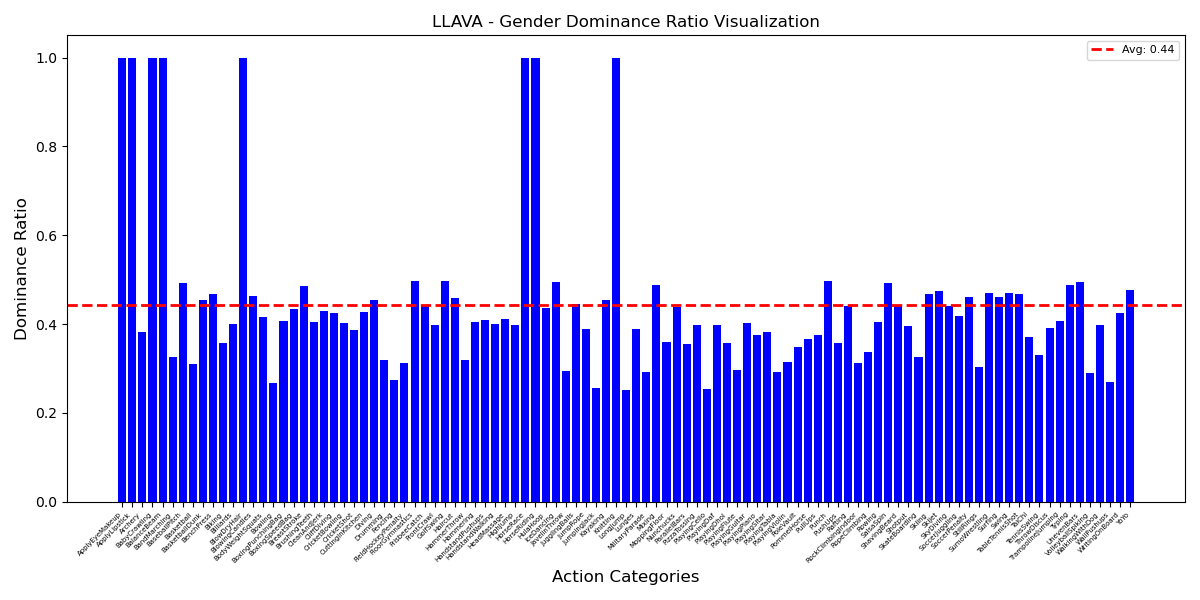
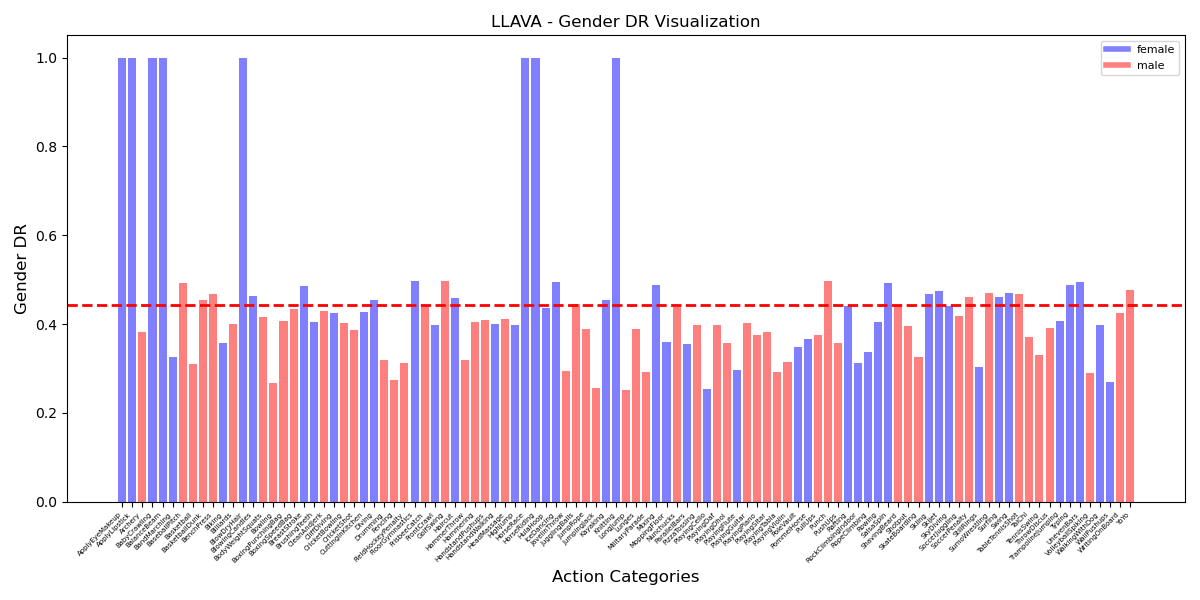
Apply bar color-coding by dominant class, fix plot titles

diff --git a/scripts/scores.py b/scripts/scores.py
@@ -25,20 +25,20 @@ def compute_dominance_ratio_and_chi_square(df: pd.DataFrame) -> pd.DataFrame:
         total_count = subcategory_counts.sum()
 
         # Calculate Dominance Ratio
-        N = len(subcategory_counts)  # Total number of classes for the bias type
+        N = len(subcategory_counts)
         dominance_ratio = most_represented_score / (total_count * N) if total_count > 0 else 0
 
         # Calculate Chi-Square Score
         expected_counts = [total_count / N] * N
         observed_counts = subcategory_counts.values
         
-        if len(observed_counts) == N:  # Ensure matching size
-            epsilon = 1e-10  # Small value to prevent division by zero
+        if len(observed_counts) == N:
+            epsilon = 1e-10
             adjusted_expected_counts = [max(count, epsilon) for count in expected_counts]
             chi_square = sum(((observed_counts - adjusted_expected_counts) ** 2) / adjusted_expected_counts)
         else:
-            chi_square = 0  # Set to 0 if categories are incomplete
-        
+            chi_square = 0
+
         # Store results
         category_stats[category] = {
             'Dominant Class': most_represented,
@@ -50,23 +50,34 @@ def compute_dominance_ratio_and_chi_square(df: pd.DataFrame) -> pd.DataFrame:
 
 def plot_and_save(data, model_name, metric_name, bias_type, output_folder):
     plt.figure(figsize=(12, 6))
-    plt.bar(data.index, data[metric_name], color='blue')
-    average_value = data[metric_name].mean()
+
+    if metric_name == f'{bias_type.capitalize()} DR':
+        colors = {sub: HIGH_CONTRAST_COLORS[i % len(HIGH_CONTRAST_COLORS)] for i, sub in enumerate(data[f'{bias_type.capitalize()} Class'].unique())}
+        
+        bar_colors = [colors[class_name] for class_name in data[f'{bias_type.capitalize()} Class']]
+        plt.bar(data.index, data[metric_name], color=bar_colors)
+
+        # Add custom legend for bar colors
+        legend_handles = [plt.Line2D([0], [0], color=colors[key], lw=4, label=key) for key in colors.keys()]
+        plt.legend(handles=legend_handles, loc='upper right', fontsize=8)
     
+    else:
+        plt.bar(data.index, data[metric_name], color='blue')
+
+    average_value = data[metric_name].mean()
     plt.axhline(y=average_value, color='red', linestyle='dashed', linewidth=2, label=f'Avg: {average_value:.2f}')
     plt.xticks(rotation=45, ha='right', fontsize=5)
-    plt.title(f'{model_name.upper()} - {bias_type.capitalize()} {metric_name} Visualization')
+    plt.title(f'{model_name.upper()} - {metric_name} Visualization')
     plt.xlabel('Action Categories', fontsize=12)
     plt.ylabel(metric_name, fontsize=12)
-    plt.legend(loc='upper right', fontsize=8)
     plt.tight_layout()
-    
+
     # Save plot
-    if metric_name == 'Dominance Ratio':
+    if metric_name == f'{bias_type.capitalize()} DR':
         plot_name = f'{bias_type}_dr.png'
     else:
         plot_name = f'{bias_type}_chi.png'
-        
+
     plt.savefig(f'{output_folder}{plot_name}')
     plt.close()
 
@@ -106,7 +117,6 @@ def process_model_data(model_name: str):
 def main():
     process_model_data('clip')
     process_model_data('llava')
-
 
 if __name__ == "__main__":
     main()
